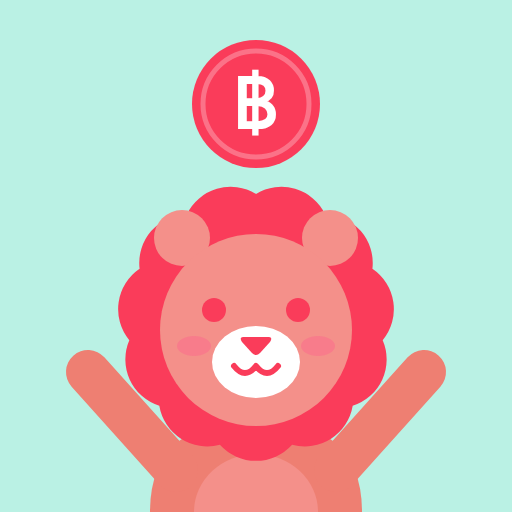
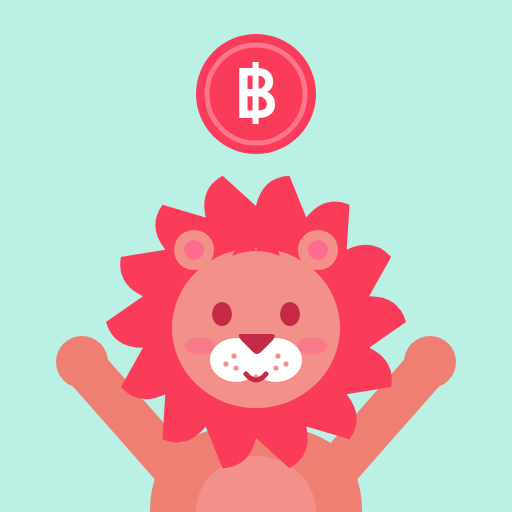
โลโก้: ปรับให้เป็นสิงโตชัดขึ้น (แผงคอเป็นแฉก หน้าเล็กลง จมูก/ปากแบบสิงโต)
Claude-Session: https://claude.ai/code/session_01S3PVuPWeF5HadkVucRc6zr

Changed region(s): [[0.0938, 0.0625, 0.9062, 0.9375]]

diff --git a/index.html b/index.html
@@ -8,9 +8,9 @@
 <meta name="apple-mobile-web-app-title" content="Cashflow">
 <meta name="mobile-web-app-capable" content="yes">
 <meta name="apple-mobile-web-app-status-bar-style" content="default">
-<link rel="apple-touch-icon" href="apple-touch-icon.png?v=3">
-<link rel="icon" type="image/png" sizes="32x32" href="favicon.png?v=3">
-<link rel="manifest" href="manifest.json?v=3">
+<link rel="apple-touch-icon" href="apple-touch-icon.png?v=4">
+<link rel="icon" type="image/png" sizes="32x32" href="favicon.png?v=4">
+<link rel="manifest" href="manifest.json?v=4">
 <title>Cashflow</title>
 <link rel="preconnect" href="https://fonts.googleapis.com">
 <link href="https://fonts.googleapis.com/css2?family=Sarabun:wght@400;600;700;800&display=swap" rel="stylesheet">
@@ -166,7 +166,7 @@ label.f{display:block;font-size:12.5px;color:var(--mute);font-weight:600;margin:
 // anon key เปิดเผยได้โดยออกแบบ — ตัวป้องกันจริงคือ RLS (owner = auth.uid()) + ต้อง login
 const CF_SUPABASE_URL = 'https://xgpsdcnqravhouwaktgp.supabase.co';
 const CF_SUPABASE_ANON = 'sb_publishable_HGOrB_SgTUq22r67me1B5Q_KYhNoL7B';   // publishable key (Fillbook)
-const CF_VERSION = '2026-11-08p';
+const CF_VERSION = '2026-11-08q';
 // =============================================================================
 
 const GRP={in:{label:'เงินเข้า',sign:1,color:'#1d9a87',icon:'⬇'},debt:{label:'ชำระหนี้',sign:-1,color:'#b54708',icon:'🏦'},exp:{label:'ค่าใช้จ่าย',sign:-1,color:'#e0304d',icon:'⬆'}};
